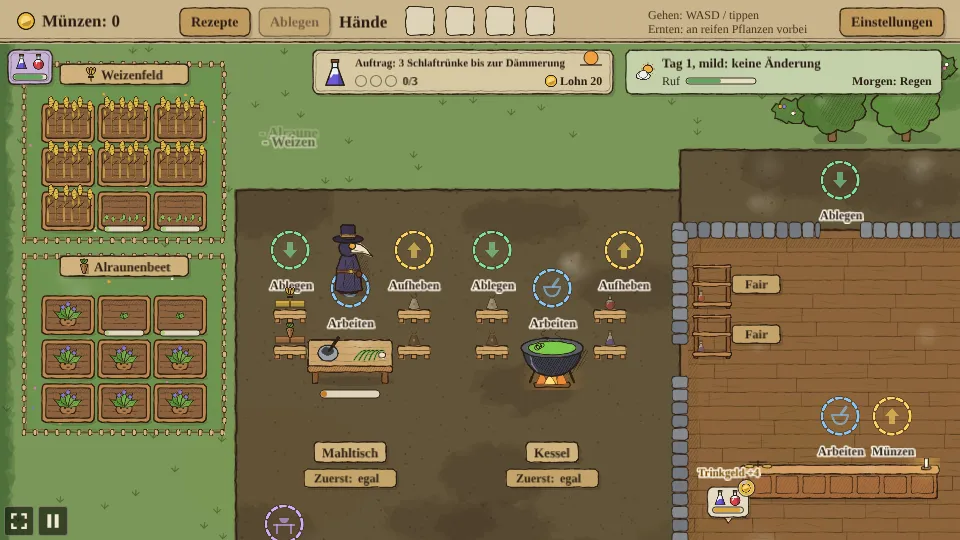
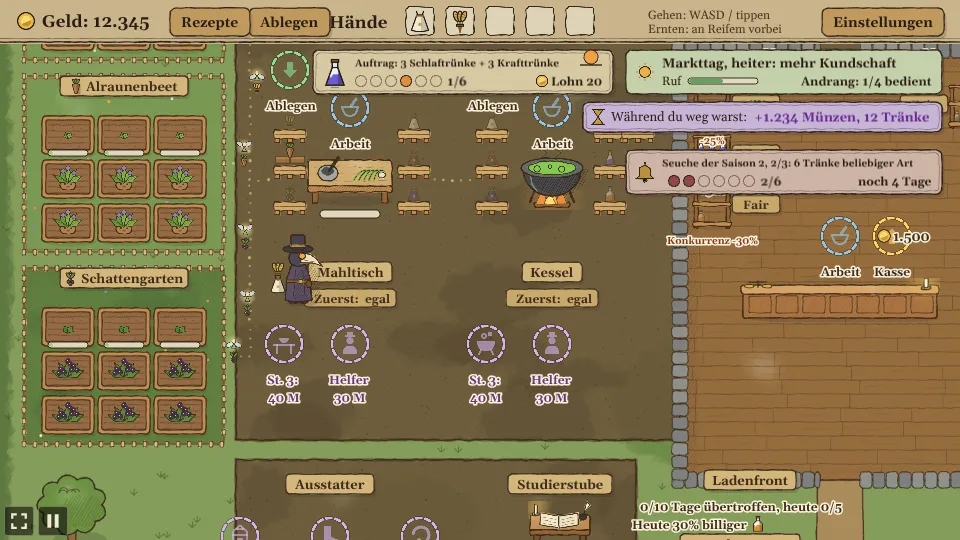
Apothecary: fit the German texts on screen
The German captions under the station rows, the outfitter, the guild and the herb market ran into
each other, and the top bar's coins, the hint, the contract card and the plague card's next-season
line ran past their room. Captions under markers that stand close now pass a room to fitCaption,
which sets them a size or two smaller and wraps at that room when still too wide; the contract title
scales down when even its smallest size is too wide; and the German texts are shorter where they
overflowed.

Requested by Chriszly

Created with Claude Opus 5.5 (default effort)

diff --git a/games/apothecary/src/scenes/GameScene.ts b/games/apothecary/src/scenes/GameScene.ts
@@ -216,6 +216,15 @@ const CAPTION = {
   align: 'center',
   wordWrap: { width: 92 },
 };
+/**
+ * How wide a marker's caption may run where its neighbours stand close: in a station's row
+ * (`COINS_GAP` apart), at a belt's build marker in that row, and in the markets (the outfitter, the
+ * guild and the herb market, 90 apart). A longer caption there is set a size or two smaller
+ * (`fitCaption`) rather than run into the next.
+ */
+const ROW_CAPTION = 56;
+const BELT_CAPTION = 68;
+const MARKET_CAPTION = 84;
 /** Caption colours: ink for the doctor's markers, violet for the ones that take coins. */
 const CAPTION_INK = INK;
 const CAPTION_PAY = '#5a2c80';
@@ -767,7 +776,7 @@ export class GameScene extends Phaser.Scene {
   }
 
   /** An upgrade marker, captioned with the next level and its price, after `name` if given. */
-  private addUpgradeMarker(at: Point, id: UpgradeId, name?: TextKey) {
+  private addUpgradeMarker(at: Point, id: UpgradeId, name?: TextKey, room?: number) {
     this.addLevelMarker(
       at,
       upgradeIcon(id),
@@ -777,13 +786,15 @@ export class GameScene extends Phaser.Scene {
       () => payUpgrade(this.state, id),
       (level, left) => (name ? t('levelCost', { name: t(name), level: level + 2, coins: left }) : t('stationLevelCost', { level: level + 2, coins: left })),
       () => unlocked(this.state, `level-${id}`),
+      room ?? (name ? undefined : ROW_CAPTION),
     );
   }
 
   /**
    * A purple marker for something bought a level at a time, like an upgrade or a craftsman: standing
    * still on it pays towards the next level, captioned by `caption` with the coins still to pay for
-   * it. It is shown while `shown` holds and goes away once the last level is bought.
+   * it. It is shown while `shown` holds and goes away once the last level is bought. With `room`,
+   * the caption is fitted to that width (`fitCaption`).
    */
   private addLevelMarker(
     at: Point,
@@ -794,6 +805,7 @@ export class GameScene extends Phaser.Scene {
     pay: () => Feedback | null,
     caption: (level: number, left: number) => string,
     shown: () => boolean = () => true,
+    room?: number,
   ) {
     this.addMarker(
       at,
@@ -818,7 +830,7 @@ export class GameScene extends Phaser.Scene {
     this.views.push(() => {
       const { level, paid } = get();
       text.setVisible(open());
-      if (level < max) text.setText(caption(level, cost(level) - paid));
+      if (level < max) this.fitCaption(text, caption(level, cost(level) - paid), room);
     });
   }
 
@@ -838,6 +850,7 @@ export class GameScene extends Phaser.Scene {
       () => payCraftsman(this.state, id),
       (_level, left) => t('hireCost', { coins: left }),
       () => unlocked(this.state, `hire-${id}`),
+      ROW_CAPTION,
     );
     stand.forEach((at, i) => {
       const craftsman = fit(this.add.image(at.x, at.y, craftsmanTexture(i)).setOrigin(0.5, 1).setDepth(at.y).setFlipX(i === 1));
@@ -868,9 +881,19 @@ export class GameScene extends Phaser.Scene {
 
   /**
    * A purple build marker captioned with the coins still to pay for the build, shown while `shown`
-   * holds; standing still on it pays towards the build.
+   * holds; standing still on it pays towards the build. With `room`, the caption is fitted to that
+   * width (`fitCaption`).
    */
-  private addBuildMarker(at: Point, icon: UpgradeIcon, caption: TextKey, cost: number, build: Build, shown: () => boolean, act: () => Feedback | null) {
+  private addBuildMarker(
+    at: Point,
+    icon: UpgradeIcon,
+    caption: TextKey,
+    cost: number,
+    build: Build,
+    shown: () => boolean,
+    act: () => Feedback | null,
+    room?: number,
+  ) {
     const pad = fit(this.add.image(at.x, at.y, upgradePad(icon)).setDepth(-400));
     const text = this.add
       .text(at.x, at.y + 26, '', { ...CAPTION, color: CAPTION_PAY })
@@ -880,8 +903,25 @@ export class GameScene extends Phaser.Scene {
     this.views.push(() => {
       const show = shown();
       pad.setVisible(show);
-      text.setVisible(show).setText(t('buildCost', { name: t(caption), coins: cost - build.paid }));
+      text.setVisible(show);
+      this.fitCaption(text, t('buildCost', { name: t(caption), coins: cost - build.paid }), room);
     });
+  }
+
+  /**
+   * Shows `caption` under a purple marker. Without `room` it wraps at the caption's width as usual;
+   * with it, a caption wider than `room` is set a size or two smaller, and wraps at `room` if that is
+   * still too wide, so it doesn't run into the markers beside it.
+   */
+  private fitCaption(text: Phaser.GameObjects.Text, caption: string, room?: number) {
+    if (text.text === caption) return;
+    if (room === undefined) {
+      text.setText(caption);
+      return;
+    }
+    text.setWordWrapWidth(null).setFontSize(CAPTION.fontSize).setText(caption);
+    for (let size = parseInt(CAPTION.fontSize) - 1; text.width > room && size >= 10; size--) text.setFontSize(size);
+    if (text.width > room) text.setFontSize(CAPTION.fontSize).setWordWrapWidth(room);
   }
 
   /**
@@ -946,6 +986,7 @@ export class GameScene extends Phaser.Scene {
       const belt = this.state.belts[id];
       this.addBuildMarker(BELT_BUILD[id], 'pixies', 'pixies', BELT_COST[id], belt, () => !belt.built && beltBuildable(this.state, id) && unlocked(this.state, `belt-${id}`), () =>
         payBelt(this.state, id),
+        BELT_CAPTION,
       );
       const riding: { pixie: Phaser.GameObjects.Image; icon: Phaser.GameObjects.Image }[] = [];
       const [main, ...feeders] = BELT_PATHS[id];
@@ -1028,7 +1069,7 @@ export class GameScene extends Phaser.Scene {
   /** The outfitter's stall right of the shop: upgrades for the doctor's pack, boots and sickle. */
   private createOutfitter() {
     this.label(OUTFITTER.sign.x, OUTFITTER.sign.y, t('outfitter'));
-    for (const id of DOCTOR_UPGRADES) this.addUpgradeMarker(OUTFITTER[id], id, UPGRADES[id].name);
+    for (const id of DOCTOR_UPGRADES) this.addUpgradeMarker(OUTFITTER[id], id, UPGRADES[id].name, MARKET_CAPTION);
   }
 
   /** The guild in the corner of the yard: upgrades for the gardens, the belts and the shop. */
@@ -1036,8 +1077,8 @@ export class GameScene extends Phaser.Scene {
     this.label(GUILD.sign.x, GUILD.sign.y, t('guild'));
     // Its upgrades go up for sale once the doctor has paid to join.
     const { guild } = this.state;
-    this.addBuildMarker(GUILD.join, 'guild', 'joinGuild', GUILD_COST, guild, () => !guild.built && unlocked(this.state, 'guild'), () => joinGuild(this.state));
-    for (const id of GUILD_UPGRADES) this.addUpgradeMarker(GUILD[id], id, UPGRADES[id].name);
+    this.addBuildMarker(GUILD.join, 'guild', 'joinGuild', GUILD_COST, guild, () => !guild.built && unlocked(this.state, 'guild'), () => joinGuild(this.state), MARKET_CAPTION);
+    for (const id of GUILD_UPGRADES) this.addUpgradeMarker(GUILD[id], id, UPGRADES[id].name, MARKET_CAPTION);
   }
 
   /**
@@ -1294,9 +1335,11 @@ export class GameScene extends Phaser.Scene {
       icon.setTexture(itemTexture(c.potion));
       const potions = potionCount(c.potion, c.need);
       title.setText(c.bundle ? t('contractBundle', { potions, more: potionCount(c.bundle.potion, c.bundle.need) }) : t('contract', { potions }));
-      // The title stops short of the dusk dial, in a smaller hand when a long one would run into it.
-      title.setFontSize(13);
+      // The title stops short of the dusk dial, in a smaller hand when a long one would run into it,
+      // and scaled down to fit when even the smallest hand is too wide.
+      title.setScale(1).setFontSize(13);
       for (let size = 12; title.width > w - 42 - 40 && size >= 10; size--) title.setFontSize(size);
+      title.setScale(Math.min(1, (w - 42 - 40) / title.width));
       const gap = need > 8 ? 11 : 15;
       const r = need > 8 ? 4.5 : 5.5;
       pips.clear();
@@ -1571,8 +1614,12 @@ export class GameScene extends Phaser.Scene {
       for (const part of [stall, name, board, sellText, buyText, pick, pickIcon]) part.setVisible(shown);
       if (!shown) return;
       pickIcon.setTexture(itemTexture(herb));
-      buyText.setText(t('buyHerb', { item: itemName(herb), coins: herbBuyPrice(day, herb) }));
-      sellText.setText(top && (isPlant(top) || isRefined(top)) ? t('sellHerb', { item: itemName(top), coins: herbSellPrice(day, top) }) : t('sellHerbs'));
+      this.fitCaption(buyText, t('buyHerb', { item: itemName(herb), coins: herbBuyPrice(day, herb) }), MARKET_CAPTION);
+      this.fitCaption(
+        sellText,
+        top && (isPlant(top) || isRefined(top)) ? t('sellHerb', { item: itemName(top), coins: herbSellPrice(day, top) }) : t('sellHerbs'),
+        MARKET_CAPTION,
+      );
     });
   }
 

diff --git a/games/apothecary/src/i18n/de.ts b/games/apothecary/src/i18n/de.ts
@@ -2,8 +2,9 @@ import type { Translation } from '../../../../shared/i18n';
 import type en from './en';
 
 /**
- * Apothecary's texts in German. Coins are Münzen, shortened to M after a price; a station's
- * markers stand too close for a German caption on one line, so their prices go on a line of their own.
+ * Apothecary's texts in German. Coins are Münzen, shortened to M after a price. Captions under
+ * markers that stand close together (a station's row, the outfitter) are kept short, and
+ * `fitCaption` in `GameScene.ts` sets one a size smaller where it still runs long.
  */
 const de: Translation<typeof en> = {
   // Items, by id
@@ -90,18 +91,18 @@ const de: Translation<typeof en> = {
   rivalApothecary: 'Konkurrenz',
   pickUp: 'Aufheben',
   drop: 'Ablegen',
-  work: 'Arbeiten',
-  coins: 'Münzen',
+  work: 'Arbeit',
+  coins: 'Kasse',
   first: 'Zuerst:',
   any: 'egal',
   land: 'Land',
   table: 'Tisch',
   joinGuild: 'Gilde beitreten',
-  levelCost: '{name} {level}:\u00a0{coins}\u00a0M',
-  stationLevelCost: 'Stufe {level}:\n{coins}\u00a0M',
-  buildCost: '{name}:\n{coins}\u00a0M',
-  learnCost: '{potion}:\n{coins}\u00a0M',
-  hireCost: 'Anheuern:\n{coins}\u00a0M',
+  levelCost: '{name}\u00a0{level}: {coins}\u00a0M',
+  stationLevelCost: 'St. {level}: {coins}\u00a0M',
+  buildCost: '{name}: {coins}\u00a0M',
+  learnCost: '{potion}: {coins}\u00a0M',
+  hireCost: 'Helfer {coins}\u00a0M',
 
   // Feedback over the doctor
   gained: '+ {item}',
@@ -134,9 +135,9 @@ const de: Translation<typeof en> = {
   sold: '- {item} +{coins}\u00a0M',
 
   // Top bar and panels
-  coinsHud: 'Münzen: {n}',
+  coinsHud: 'Geld: {n}',
   hands: 'Hände',
-  hint: 'Gehen: WASD / tippen\nErnten: an reifen Pflanzen vorbei',
+  hint: 'Gehen: WASD / tippen\nErnten: an Reifem vorbei',
   settings: 'Einstellungen',
   dropAll: 'Ablegen',
   recipes: 'Rezepte',
@@ -154,7 +155,7 @@ const de: Translation<typeof en> = {
   noTip: 'kein Trinkgeld',
 
   // Contract card
-  contract: 'Auftrag: {potions} bis zur Dämmerung',
+  contract: 'Auftrag: {potions} bis abends',
   contractBundle: 'Auftrag: {potions} + {more}',
   reward: 'Lohn {n}',
   contractKept: 'Auftrag erfüllt!',
@@ -170,7 +171,7 @@ const de: Translation<typeof en> = {
   sicknessSpreads: 'Eine Krankheit breitet sich in der Stadt aus!',
   townCured: 'Die Stadt ist geheilt!',
   townCuredSeals: 'Die Stadt ist geheilt! Siegel: {seals}, Preise +{n}%',
-  nextSeason: 'Die Krankheit der nächsten Saison kommt an Tag {day}',
+  nextSeason: 'Nächste Seuche ab Tag {day}',
   brewTheCure: 'Allheilmittel frei: braue die Heilung',
   inACauldron: 'in einem Kessel',
   plagueStage: 'Seuche {stage}/{stages}: {need}',
@@ -190,8 +191,8 @@ const de: Translation<typeof en> = {
   wagonReady: 'Im Regal {have}/{crate}: zum Verkauf tippen, noch {s} s',
 
   // Herb market
-  buyHerb: 'Kaufen: {item} {coins}\u00a0M',
-  sellHerb: 'Verkaufen: {item} {coins}\u00a0M',
+  buyHerb: '{item}\nKauf: {coins}\u00a0M',
+  sellHerb: '{item}\nVerkauf: {coins}\u00a0M',
   sellHerbs: 'Kräuter verkaufen',
 
   // Town card

diff --git a/games/apothecary/AGENTS.md b/games/apothecary/AGENTS.md
@@ -521,9 +521,10 @@ brew's `out` may be `PANACEA`.
 - Add or change a text: its key in `src/i18n/en.ts`, the German in `src/i18n/de.ts` (the build
   fails without it) and, when the US spelling differs, `src/i18n/en-US.ts`; run
   `node scripts/check-translations.mjs`. German runs longer than English: a station's row of
-  purple markers is the tightest spot (their German captions put the price on a second line), then
-  the top bar's buttons and hint and the contract card's title (which shrinks its font to fit), so
-  check a new text with `?lang=de`. Never compare a translated text in game logic; compare ids.
+  purple markers and the outfitter's are the tightest spots (their captions pass a `room` to
+  `fitCaption` in `GameScene.ts`, which sets one a size or two smaller rather than let it run into
+  its neighbour), then the top bar's coins, buttons and hint and the contract card's title (which
+  shrinks its font to fit), so keep German short and check a new text with `?lang=de`. Never compare a translated text in game logic; compare ids.
 
 - Tune a number: edit the table in `src/game/items.ts` or `src/game/state.ts`; if it is a grow
   time, price, tip, carry size or recipe, update the matching expectation in the playthrough.
